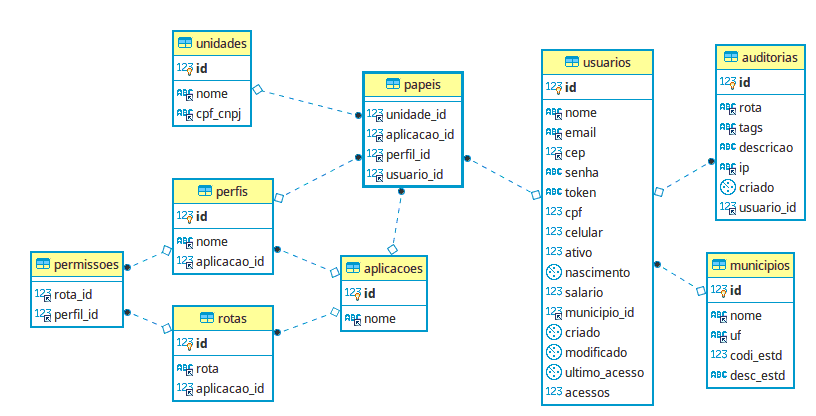
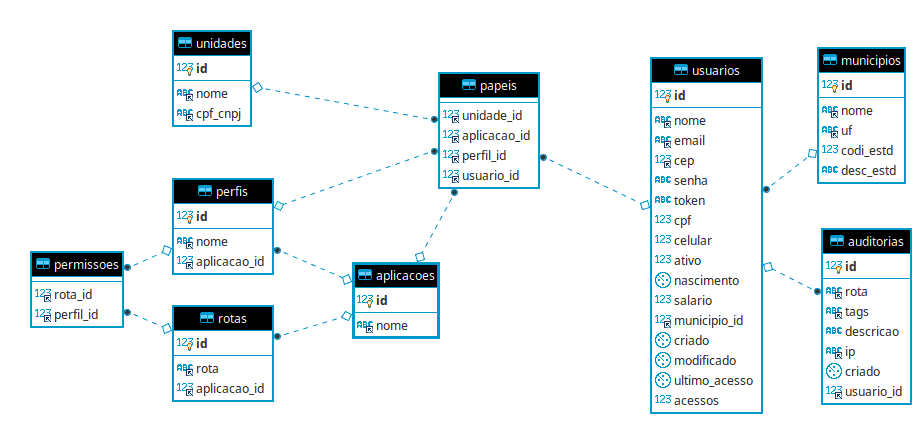
removendo os papeis da table usuarios, não precisa dela, pois já tem perfis, unidades e até aplicações

diff --git a/modules/mac/orm/table/usuarios.js b/modules/mac/orm/table/usuarios.js
@@ -28,12 +28,6 @@ class Usuarios extends Table {
                 }
             },
             hasMany: {
-                Papeis: {
-                    module:                 'mac',
-                    foreignKeyLeft:         'id',
-                    tableRight:             'papeis',
-                    foreignKeyRight:        'usuario_id'
-                },
                 Perfis: {
                     module:                 'mac',
                     foreignKeyLeft:         'id',
@@ -126,6 +120,14 @@ class Usuarios extends Table {
         if (this.validationType === 'create') {
             this.data['UsuaToken'] = geraToken()
         }
+
+        if (this.data['Perfis'] && !!!this.data['Unidades']) {
+            throw new Error(__('O total de Perfis está diferente do total de Unidades!'))
+        }
+        if (this.data['Unidades'] && !!!this.data['Perfis']) {
+            throw new Error(__('O total de Unidades está diferente do total de Perfis!'))
+        }
+
         if (this.data['Perfis'] || this.data['Unidades']) {
             const totPerfis     = (this.data['Perfis'].split(',').length)
             const totUnidades   = (this.data['Unidades'].split(',').length)
